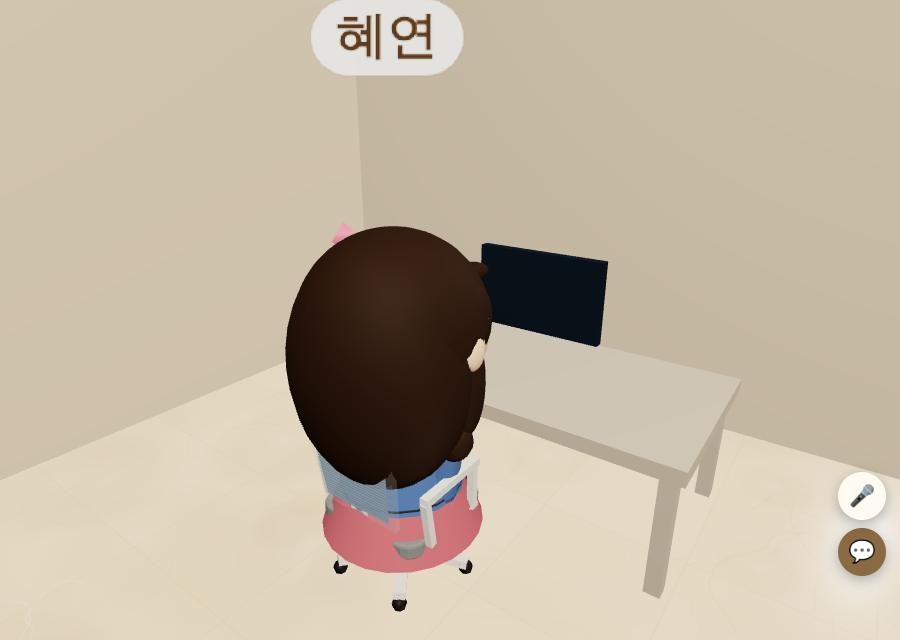
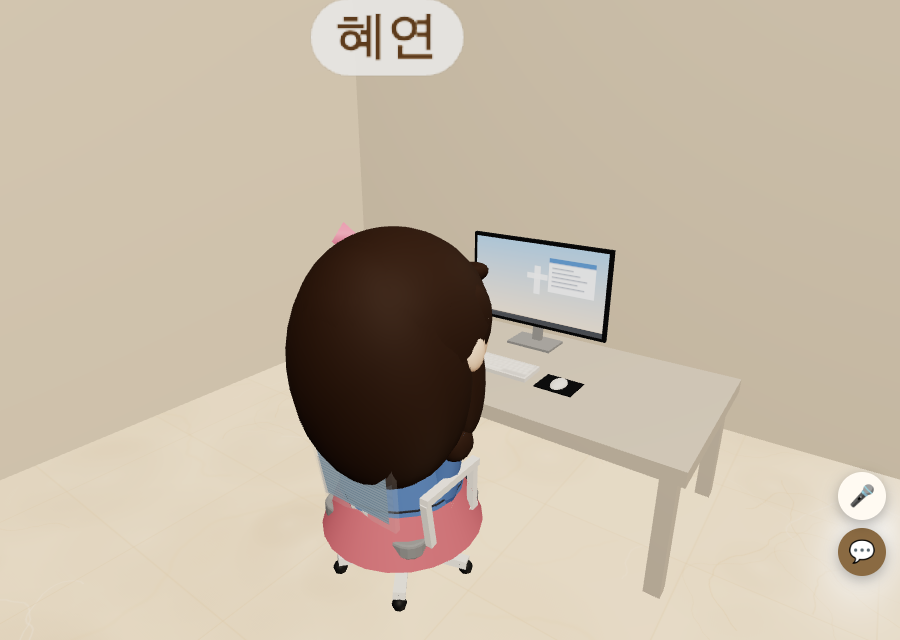
F2 office computers: monitor on stand with desktop, keyboard, mouse and pad
Claude-Session: https://claude.ai/code/session_01Vz1QJf3UdmpjXu7m5EnhFF

Changed region(s): [[0.5289, 0.3438, 0.6844, 0.625]]

diff --git a/index.html b/index.html
@@ -1443,6 +1443,43 @@
           });
           g.userData.seat = { x, y: Y + 0.20, z, rot: rotY, kind: 'chair' };
         },
+        // 컴퓨터 한 벌: 받침 달린 얇은 모니터(바탕화면) · 키보드 · 마우스와 패드. rotY: 앉은 사람 쪽(화면 앞)이 보는 방향 (0 = +z). 책상 윗면 0.38
+        computer(x, z, rotY) {
+          const g = new THREE.Group(); g.position.set(x, Y + 0.38, z); g.rotation.y = rotY; group.add(g);
+          const M = (c, r, mt) => new THREE.MeshStandardMaterial({ color: c, roughness: r, metalness: mt || 0 });
+          const dark = k._pcD || (k._pcD = M(0x1d1f23, 0.4)), silver = k._pcS || (k._pcS = M(0xc4c8cd, 0.3, 0.4)), keyM = k._pcK || (k._pcK = M(0xf1f1ef, 0.5));
+          const scr = k._pcScr || (k._pcScr = (() => {                                 // 바탕화면: 하늘빛 그러데이션 + 작은 십자가 + 창 하나 + 아래 줄
+            const c = document.createElement('canvas'); c.width = 256; c.height = 150; const x2 = c.getContext('2d');
+            const gr = x2.createLinearGradient(0, 0, 0, 150); gr.addColorStop(0, '#9cc3e6'); gr.addColorStop(1, '#f3dcc0'); x2.fillStyle = gr; x2.fillRect(0, 0, 256, 150);
+            x2.fillStyle = 'rgba(255,255,255,0.85)'; x2.fillRect(122, 40, 12, 52); x2.fillRect(108, 54, 40, 10);
+            x2.fillStyle = 'rgba(255,255,255,0.92)'; x2.fillRect(150, 22, 86, 62); x2.fillStyle = '#5b8bc4'; x2.fillRect(150, 22, 86, 9);
+            x2.fillStyle = 'rgba(90,100,115,0.5)'; for (let i = 0; i < 5; i++) x2.fillRect(156, 38 + i * 8, 40 + (i * 13) % 30, 3);
+            x2.fillStyle = 'rgba(30,40,55,0.75)'; x2.fillRect(0, 140, 256, 10);
+            const t = new THREE.CanvasTexture(c); if ('colorSpace' in t) t.colorSpace = THREE.SRGBColorSpace;
+            return new THREE.MeshBasicMaterial({ map: t, color: 0xe6e6e6 });
+          })());
+          const keys = k._pcKeys || (k._pcKeys = (() => {                               // 키보드 자판 무늬 (4줄 + 스페이스 바)
+            const c = document.createElement('canvas'); c.width = 256; c.height = 84; const x2 = c.getContext('2d');
+            x2.fillStyle = '#d9dadb'; x2.fillRect(0, 0, 256, 84); x2.fillStyle = '#fbfbfa';
+            for (let r = 0; r < 4; r++) for (let i = 0; i < 15; i++) x2.fillRect(4 + i * 16.6 + (r % 2) * 3, 4 + r * 16, 13.5, 13);
+            x2.fillRect(70, 68, 110, 13);
+            const t = new THREE.CanvasTexture(c); if ('colorSpace' in t) t.colorSpace = THREE.SRGBColorSpace;
+            return new THREE.MeshStandardMaterial({ map: t, roughness: 0.55 });
+          })());
+          const add = (geo, m, px, py, pz, rx) => { const b = new THREE.Mesh(geo, m); b.position.set(px, py, pz); if (rx) b.rotation.x = rx; b.castShadow = true; g.add(b); return b; };
+          // 모니터 (뒤쪽): 받침 · 목 · 얇은 화면 (테두리 + 바탕화면 + 뒷판)
+          add(new THREE.BoxGeometry(0.15, 0.008, 0.1), silver, 0, 0.004, -0.17);
+          add(new THREE.BoxGeometry(0.03, 0.12, 0.016), silver, 0, 0.068, -0.19, -0.08);
+          add(new THREE.BoxGeometry(0.47, 0.28, 0.014), dark, 0, 0.2, -0.17);
+          add(new THREE.PlaneGeometry(0.45, 0.26), scr, 0, 0.2, -0.162);
+          add(new THREE.BoxGeometry(0.28, 0.16, 0.022), dark, 0, 0.19, -0.188);
+          // 키보드 (앞쪽, 살짝 기울어짐) · 마우스 패드 · 마우스
+          add(new THREE.BoxGeometry(0.27, 0.012, 0.09), keyM, -0.02, 0.008, 0.06, 0.05);
+          add(new THREE.PlaneGeometry(0.26, 0.082), keys, -0.02, 0.0155, 0.06, -Math.PI / 2 + 0.05);
+          add(new THREE.BoxGeometry(0.11, 0.003, 0.09), dark, 0.2, 0.0015, 0.065);
+          const mouse = add(new THREE.SphereGeometry(1, 14, 10), keyM, 0.2, 0.004, 0.065); mouse.scale.set(0.022, 0.013, 0.036);
+          g.traverse((o) => { o.userData.noCamBlock = true; });
+        },
         table(x, z, w, d, mat) {
           k.box(w, 0.04, d, x, 0.34, z, mat || k.mWood);
           [[-1, -1], [-1, 1], [1, -1], [1, 1]].forEach(([sx, sz]) => k.box(0.04, 0.34, 0.04, x + sx * (w / 2 - 0.04), 0, z + sz * (d / 2 - 0.04), mat || k.mWood));
@@ -1586,9 +1623,9 @@
       {
         const dk = k.M(0xcfc6b8), scr = k.M(0x22303f, 0.3), chairM = k.M(0x4a5563);
         [[-11.0, -7.7], [-9.2, -7.7]].forEach(([x, z]) => {                        // 북쪽 벽(소예배실 쪽)에 붙인 책상 2
-          k.table(x, z, 1.2, 0.55, dk); k.box(0.42, 0.26, 0.03, x, 0.42, z - 0.18, scr); k.officeChair(x, z + 0.5, Math.PI); });
+          k.table(x, z, 1.2, 0.55, dk); k.computer(x, z, 0); k.officeChair(x, z + 0.5, Math.PI); });
         [[-12.0, -5.6], [-12.0, -4.2]].forEach(([x, z]) => {                       // 서쪽 벽에 붙인 책상 2
-          k.table(x, z, 0.55, 1.1, dk); k.box(0.03, 0.26, 0.42, x - 0.18, 0.42, z, scr); k.officeChair(x + 0.5, z, -Math.PI / 2); });
+          k.table(x, z, 0.55, 1.1, dk); k.computer(x, z, Math.PI / 2); k.officeChair(x + 0.5, z, -Math.PI / 2); });
         k.table(-9.0, -4.6, 1.0, 1.4, k.M(0xa77b50));                              // 회의 탁자 + 의자 4
         [[-9.0, -5.55, 0], [-9.0, -3.65, Math.PI], [-9.75, -4.6, Math.PI / 2], [-8.25, -4.6, -Math.PI / 2]].forEach(([x, z, r]) => k.chair(x, z, r, chairM));
         k.shelf(-7.95, -7.95, 1.0, 0); k.shelf(-11.0, -2.8, 1.8, Math.PI);         // 책장

diff --git a/docs/verification/2026-11-05/REPORT.md b/docs/verification/2026-11-05/REPORT.md
@@ -369,3 +369,7 @@
 ## 2층 사무실 컴퓨터 의자 (2026-11-06, 사용자가 고른 사진 모양)
 - 책상 4개 앞 의자를 사무용 의자로: 흰 다섯 발 받침·검은 바퀴·가스 실린더, 회색 방석, 위가 넓은 흰 틀 + 하늘색 망사 등받이(살짝 뒤로 기울어짐), 회색 머리 받침, 흰 고리형 팔걸이. 앉는 높이 0.20m 그대로. 회의 탁자 의자는 그대로.
 - 검사: `office.cjs` → 컴퓨터 의자 4개, 앉기 정상(거리 0), 오류 없음. `office-chair.png`, `office-chair2.png`, `office-sit.png`.
+
+## 2층 사무실 컴퓨터 (2026-11-06)
+- 네모 상자 모니터를 컴퓨터 한 벌로: 은색 받침·목, 얇은 검은 테두리 모니터(하늘빛 바탕화면·작은 십자가·창 하나·아래 줄), 뒷판, 자판 무늬 키보드(살짝 기울어짐), 검은 마우스 패드와 흰 마우스. 책상 4개 모두.
+- 검사: `office.cjs` → 오류 없음, 의자 앉기 정상. `office-chair.png`(가까이), `office-chair2.png`.
